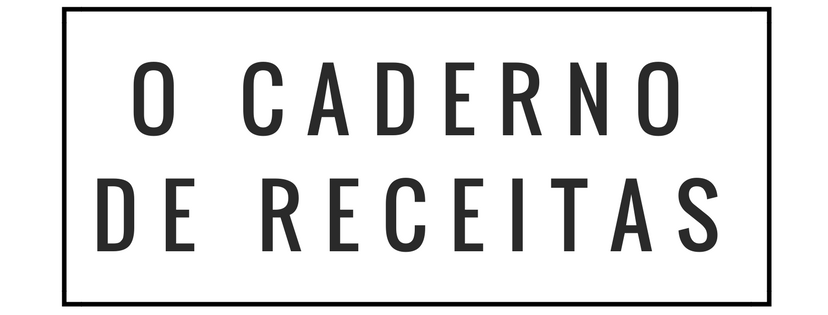
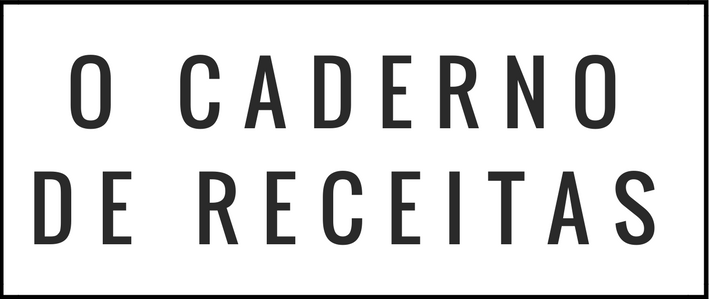
cortando a imagem

Changed region(s): [[0.0, 0.0, 1.0, 1.0], [0.2482, 0.1806, 0.8688, 0.4515]]

diff --git a/formatos.css b/formatos.css
@@ -1,11 +1,11 @@
 @font-face {
     font-family: "Caviar";
-    src: local(Caviar), url("/Fonte/CaviarDreams.ttf")
+    src: local(Caviar), url("Fonte/CaviarDreams.ttf")
 }
 
 @font-face {
     font-family: "Caviar";
-    src: local(Caviar), url("/Fonte/CaviarDreams_Bold.ttf");
+    src: local(Caviar), url("Fonte/CaviarDreams_Bold.ttf");
     font-weight: 600;
 }
 
